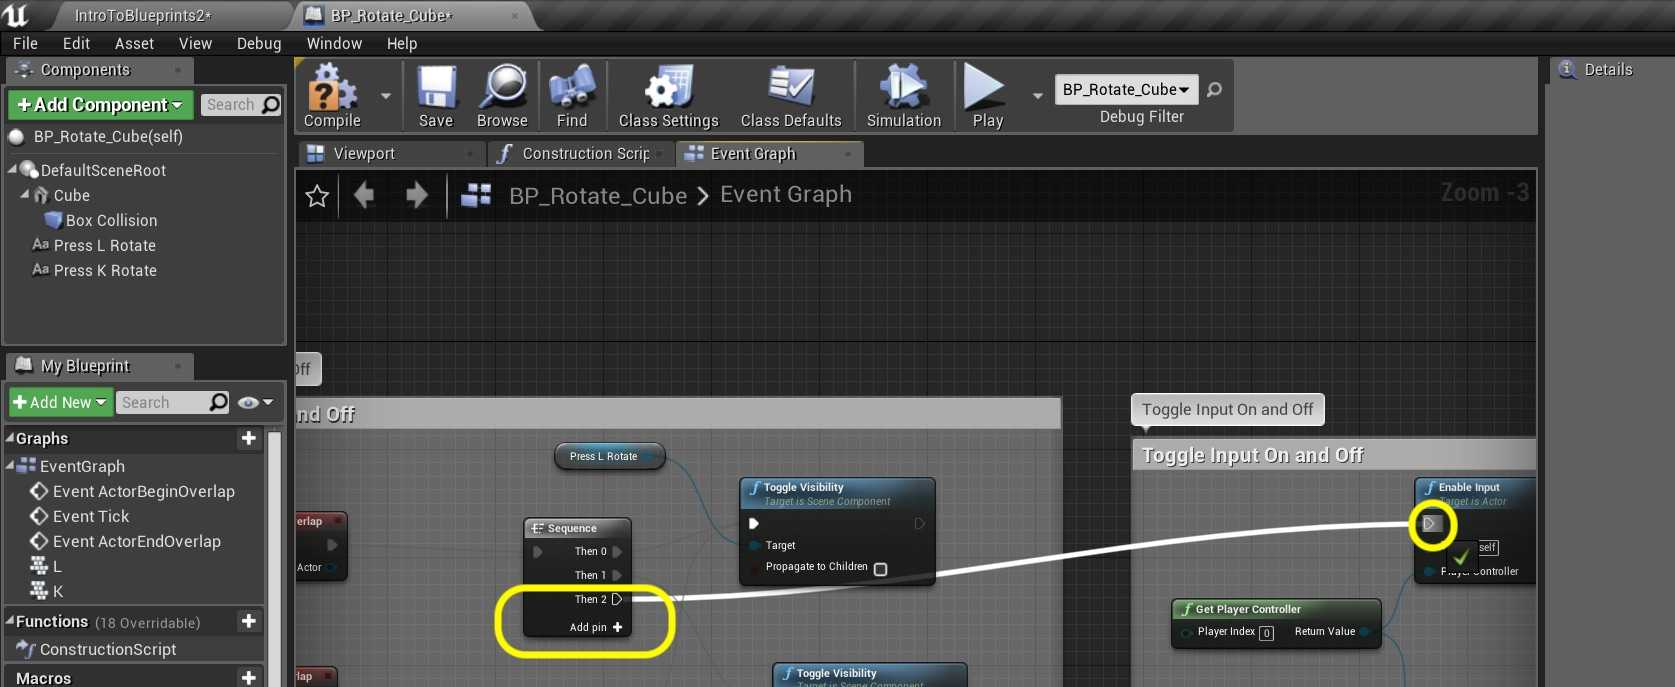
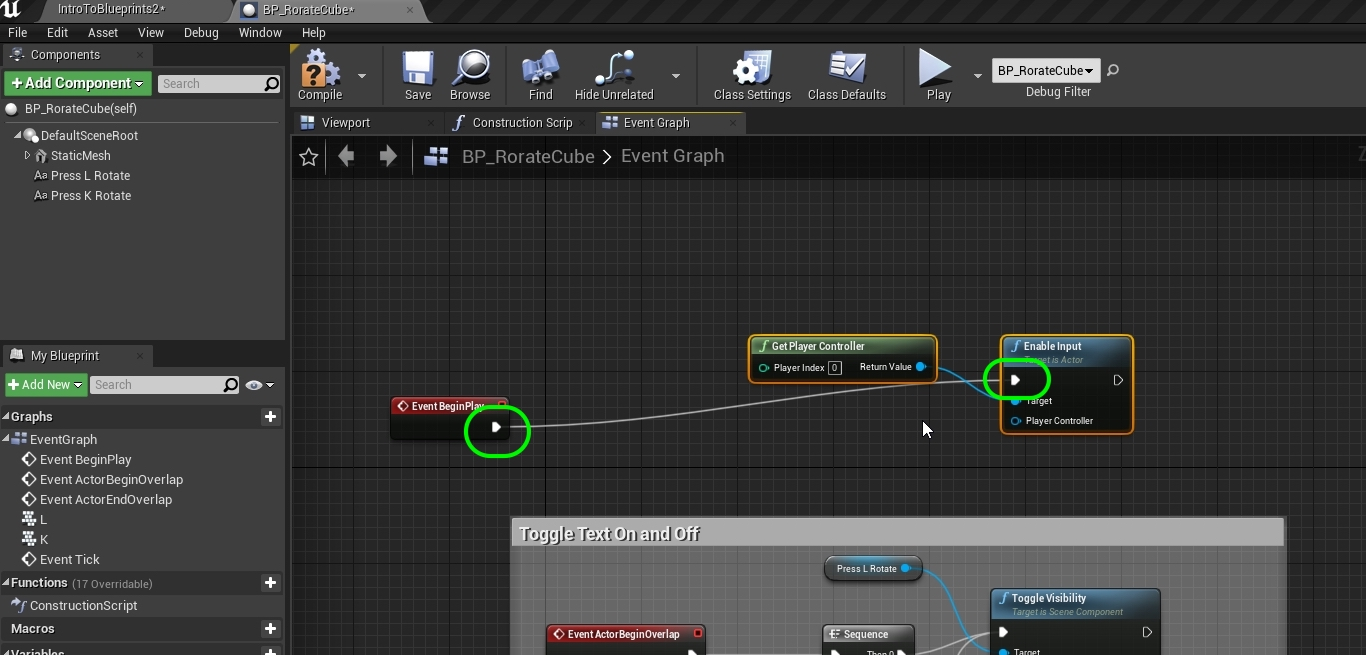
porting over old walk through

diff --git a/user-input-iii/README.md b/user-input-iii/README.md
@@ -63,7 +63,7 @@ This is a class that we have not customized but default is used in the game (you
 
 ##### `Step 7.`\|`ITB`| :small_orange_diamond: :small_blue_diamond: :small_blue_diamond:
 
-Now we don't want to pull off of the **Toggle Visibility** execution pins as this gets called every time and handles toggling on and off. This is an enable node and doesn't toggle. So go back to the **Sequence** node and *press* **Add pin** then take the Then 2 execution pin and attach it to the input execution of the Enable Input node. Add a comment to this new portion `Toggle Input On and Off`.
+Now we don't want to pull off of the **Toggle Visibility** execution pins as this gets called every time and handles toggling on and off. Connect these to the **Begin Play** execution node.
 
 ![add pin to sequence node](images/SequenceToEnableCommentRm16.jpg)
 
@@ -71,21 +71,13 @@ Now we don't want to pull off of the **Toggle Visibility** execution pins as thi
 
 ##### `Step 8.`\|`ITB`| :small_orange_diamond: :small_blue_diamond: :small_blue_diamond: :small_blue_diamond:
 
-Repeat this process for an added Disable Input node for when the player leaves the collision volume:
-
-![repeat for disable input](images/RepeatForDisableInput.jpg)
-
-<img src="https://via.placeholder.com/500x2/45D7CA/45D7CA" alt="drawing" height="2px" alt = ""/>
-
-##### `Step 9.`\|`ITB`| :small_orange_diamond: :small_blue_diamond: :small_blue_diamond: :small_blue_diamond: :small_blue_diamond:
-
 Now go to the game and select the **BP_RotateCube** instance in the level and change the **Auto Receive Input** to `Player 0`.
 
 ![change auto receive input to player 0](images/AutoReceivePlayer0.jpg)
 
 <img src="https://via.placeholder.com/500x2/45D7CA/45D7CA" alt="drawing" height="2px" alt = ""/>
 
-##### `Step 10.`\|`ITB`| :large_blue_diamond:
+##### `Step 9.`\|`ITB`| :small_orange_diamond: :small_blue_diamond: :small_blue_diamond: :small_blue_diamond: :small_blue_diamond:
 
 Now *run* it in game and the cube should rotate clockwise when you press the <kbd>L</kbd> key.
 
@@ -93,7 +85,7 @@ Now *run* it in game and the cube should rotate clockwise when you press the <kb
 
 <img src="https://via.placeholder.com/500x2/45D7CA/45D7CA" alt="drawing" height="2px" alt = ""/>
 
-##### `Step 11.`\|`ITB`| :large_blue_diamond: :small_blue_diamond: 
+##### `Step 10.`\|`ITB`| :large_blue_diamond:
 
 Lets add counter clockwise movement. Now we need to add two nodes a **Get Rotating Counter Clockwise** and **Branch** . This checks to see if the counter clockwise <kbd>K</kbd> button is pressed.
 
@@ -101,8 +93,7 @@ Lets add counter clockwise movement. Now we need to add two nodes a **Get Rotati
 
 <img src="https://via.placeholder.com/500x2/45D7CA/45D7CA" alt="drawing" height="2px" alt = ""/>
 
-
-##### `Step 12.`\|`ITB`| :large_blue_diamond: :small_blue_diamond: :small_blue_diamond: 
+##### `Step 11.`\|`ITB`| :large_blue_diamond: :small_blue_diamond: 
 
 Now the only difference for counter clockwise movement is that the rotation is negative. So *highjack* the output of the **Speed of Rotation** and **Delta Seconds** node's Multiplication output and add a **Float * Float** node beneath.
 
@@ -110,7 +101,8 @@ Now the only difference for counter clockwise movement is that the rotation is n
 
 <img src="https://via.placeholder.com/500x2/45D7CA/45D7CA" alt="drawing" height="2px" alt = ""/>
 
-##### `Step 13.`\|`ITB`| :large_blue_diamond: :small_blue_diamond: :small_blue_diamond:  :small_blue_diamond: 
+
+##### `Step 12.`\|`ITB`| :large_blue_diamond: :small_blue_diamond: :small_blue_diamond: 
 
 Multiply this number by `-1.0`
 
@@ -118,7 +110,7 @@ Multiply this number by `-1.0`
 
 <img src="https://via.placeholder.com/500x2/45D7CA/45D7CA" alt="drawing" height="2px" alt = ""/>
 
-##### `Step 14.`\|`ITB`| :large_blue_diamond: :small_blue_diamond: :small_blue_diamond: :small_blue_diamond:  :small_blue_diamond: 
+##### `Step 13.`\|`ITB`| :large_blue_diamond: :small_blue_diamond: :small_blue_diamond:  :small_blue_diamond: 
 
 *Copy and paste* the Get **Current Angle Deg**, **Addition** and **Set Current Angle Deg** nodes and paste below. *Connect* the output of the **Multiplication** by -1 node to the input of the **+** node. *Connect* the **Execution** pin of the **Set Rotating Clockwise** node to the execution pin of the **Branch True** node.
 
@@ -126,22 +118,23 @@ Multiply this number by `-1.0`
 
 <img src="https://via.placeholder.com/500x2/45D7CA/45D7CA" alt="drawing" height="2px" alt = ""/>
 
-##### `Step 15.`\|`ITB`| :large_blue_diamond: :small_orange_diamond: 
+##### `Step 14.`\|`ITB`| :large_blue_diamond: :small_blue_diamond: :small_blue_diamond: :small_blue_diamond:  :small_blue_diamond: 
 
-Copy and paste the **Set Relative Rotation** node and *connect* the output of the second **Set** node to the **New Rotation Z (Yaw)** pin of this node:
+Copy and paste the **Set Relative Rotation** node and *connect* the output of the second **Set** node to the **New Rotation Z (Yaw)** pin of this node.
+
 ![copy set relative rotation node](images/CopySetRelativeLocationRm16.jpg)
 
 <img src="https://via.placeholder.com/500x2/45D7CA/45D7CA" alt="drawing" height="2px" alt = ""/>
 
-##### `Step 16.`\|`ITB`| :large_blue_diamond: :small_orange_diamond:   :small_blue_diamond: 
+##### `Step 15.`\|`ITB`| :large_blue_diamond: :small_orange_diamond: 
 
-Since we are targetting just the **Cube** mesh component make sure that the **Cube** is connected to the **Target**:
+Since we are targetting just the **Cube** mesh component make sure that the **Cube** is connected to the **Target**.
 
 ![connect cube to target](images/CubeToTargetRm16.jpg)
 
 <img src="https://via.placeholder.com/500x2/45D7CA/45D7CA" alt="drawing" height="2px" alt = ""/>
 
-##### `Step 17.`\|`ITB`| :large_blue_diamond: :small_orange_diamond: :small_blue_diamond: :small_blue_diamond:
+##### `Step 16.`\|`ITB`| :large_blue_diamond: :small_orange_diamond:   :small_blue_diamond: 
 
 *Run* the game and test it. Now it works OK as the <kbd>L</kbd> and <kbd>K</kbd> button both work. But there is a design flaw. What I press the L button while pressing the K button without releasing it. Now two booleans are true and they cancel each other out. I want to cancel the other rotation as soon as a new one is detected.
 
@@ -149,7 +142,7 @@ Since we are targetting just the **Cube** mesh component make sure that the **Cu
 
 <img src="https://via.placeholder.com/500x2/45D7CA/45D7CA" alt="drawing" height="2px" alt = ""/>
 
-##### `Step 18.`\|`ITB`| :large_blue_diamond: :small_orange_diamond: :small_blue_diamond: :small_blue_diamond: :small_blue_diamond:
+##### `Step 17.`\|`ITB`| :large_blue_diamond: :small_orange_diamond: :small_blue_diamond: :small_blue_diamond:
 
 So in the Button Events add a **Set Rotating Counter Clockwise** to `false` after the <kbd>L</kbd> button is pressed and a **Set Rotating Clockwise** to `false` when the <kbd>K</kbd> button is pressed:
 
@@ -157,7 +150,7 @@ So in the Button Events add a **Set Rotating Counter Clockwise** to `false` afte
 
 <img src="https://via.placeholder.com/500x2/45D7CA/45D7CA" alt="drawing" height="2px" alt = ""/>
 
-##### `Step 19.`\|`ITB`| :large_blue_diamond: :small_orange_diamond: :small_blue_diamond: :small_blue_diamond: :small_blue_diamond: :small_blue_diamond:
+##### `Step 18.`\|`ITB`| :large_blue_diamond: :small_orange_diamond: :small_blue_diamond: :small_blue_diamond: :small_blue_diamond:
 
 Now *run* the game and walk into the collision volume. This should finish up this room.
 
@@ -165,11 +158,12 @@ Now *run* the game and walk into the collision volume. This should finish up thi
 
 <img src="https://via.placeholder.com/500x2/45D7CA/45D7CA" alt="drawing" height="2px" alt = ""/>
 
-##### `Step 20.`\|`ITB`| :large_blue_diamond: :large_blue_diamond:
+##### `Step 19.`\|`ITB`| :large_blue_diamond: :small_orange_diamond: :small_blue_diamond: :small_blue_diamond: :small_blue_diamond: :small_blue_diamond:
 
 That's it for **Room 12** and this entire level and walk through. *Press* **Save All** and update **Github** by committing and pushing all the changes made.
 
 ![save, commit and push to github](images/GithubRm16.jpg)
+
 
 | `intro.blueprints`\|`THE END`| 
 | :--- |
